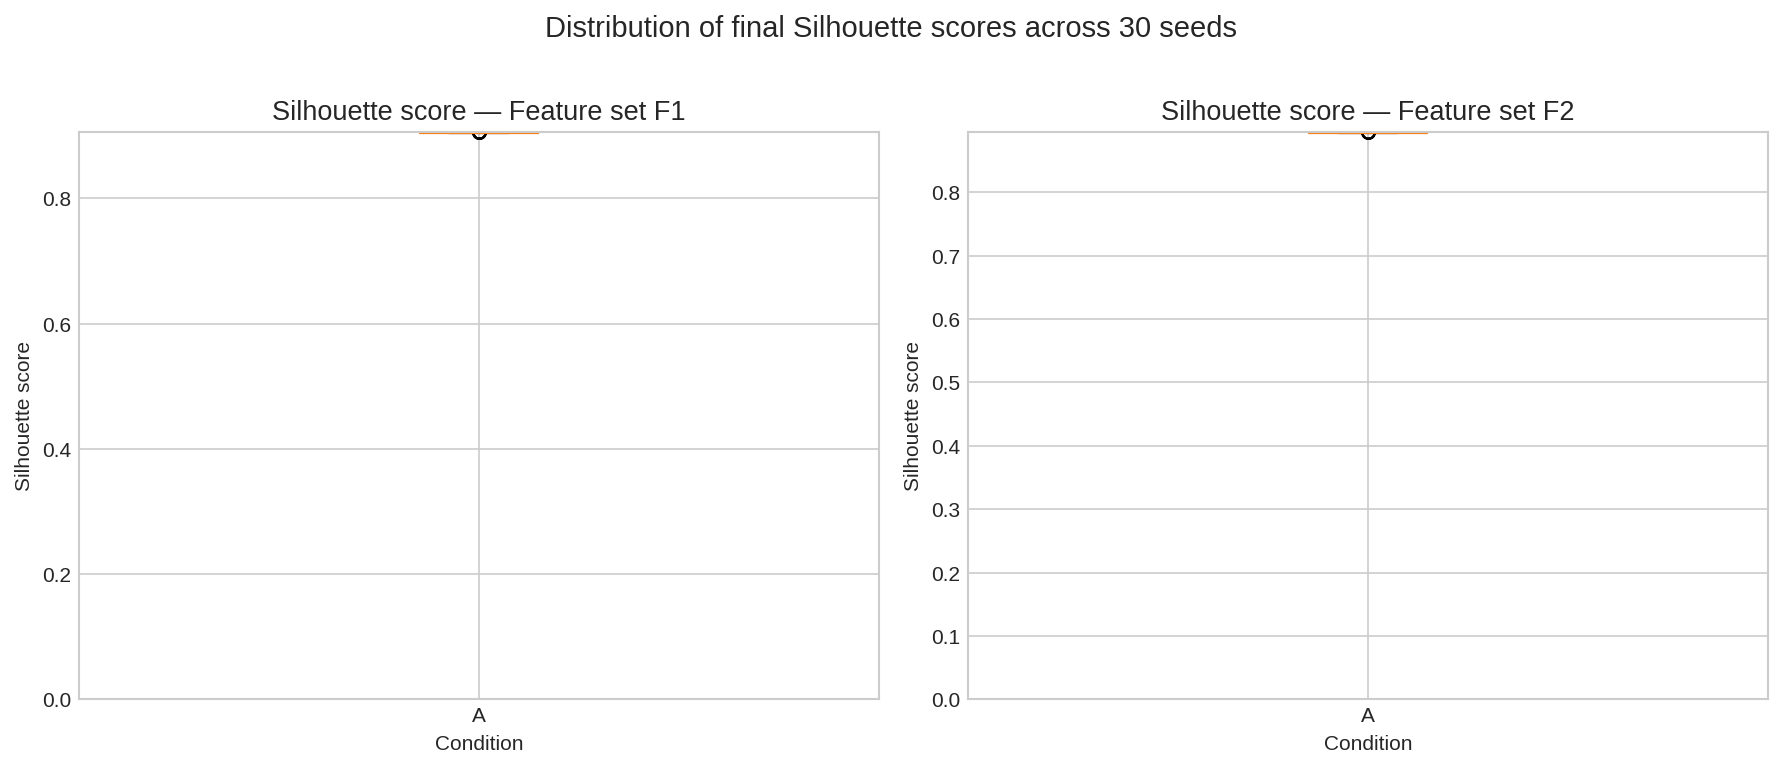
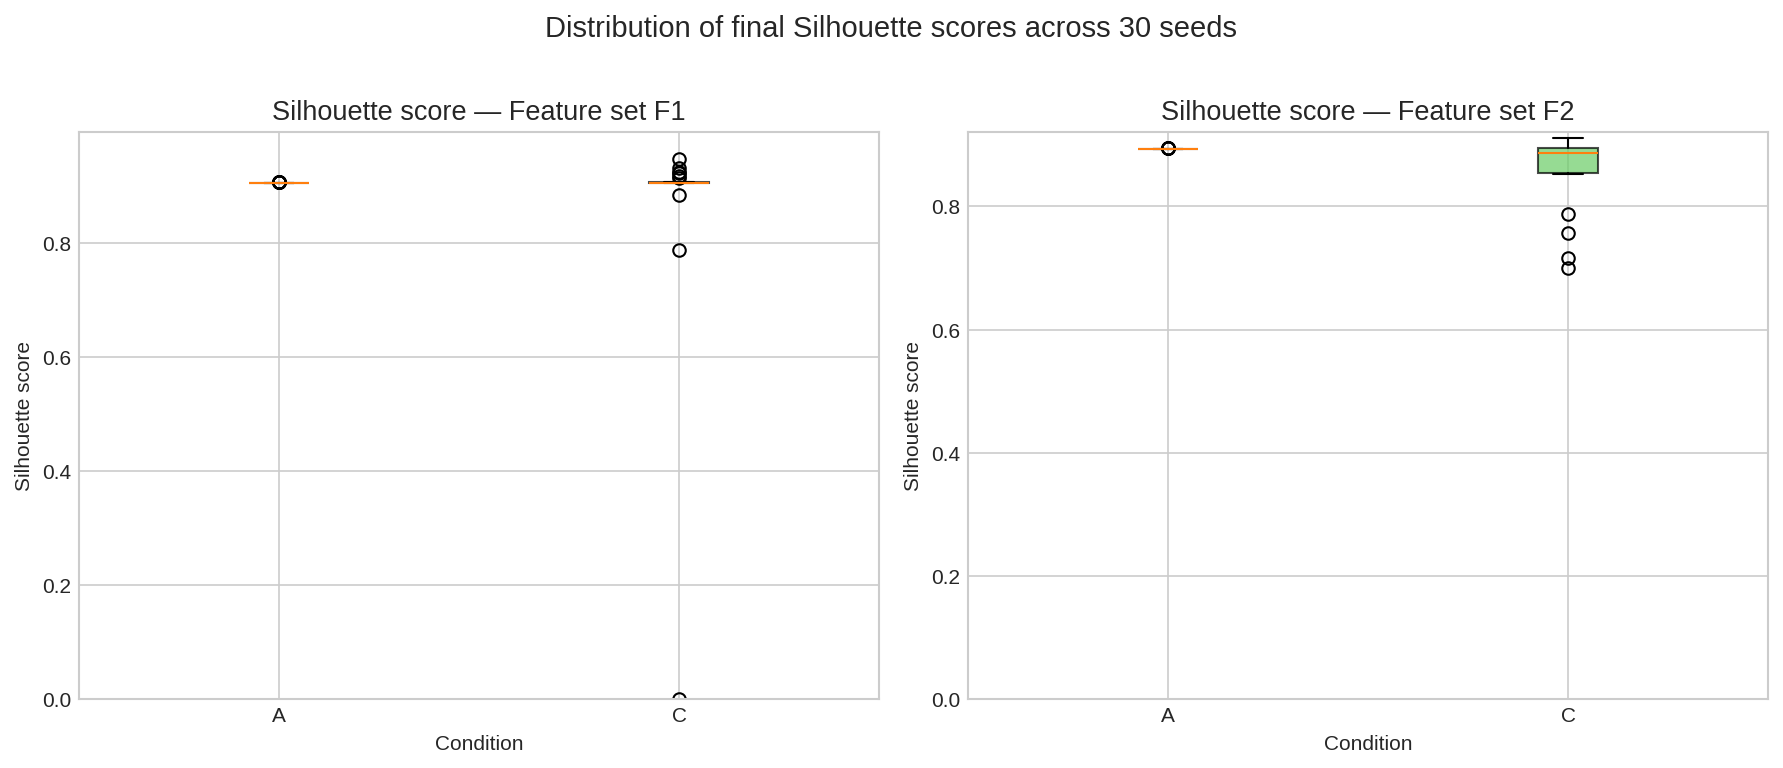
results for condition C

diff --git a/src/loop.py b/src/loop.py
@@ -64,7 +64,7 @@ def run_loop(
     K          = config["K"]
     seed       = config["seed"]
     max_turns  = config.get("max_turns", 0)
-    model      = config.get("model", "claude-sonnet-4-20250514")
+    model      = config.get("model", "claude-sonnet-4-5")
 
     interpreter_prompt = config.get("interpreter_prompt", "prompts/interpreter.md")
     oracle_prompt      = config.get("oracle_prompt",      "prompts/oracle_user.md")